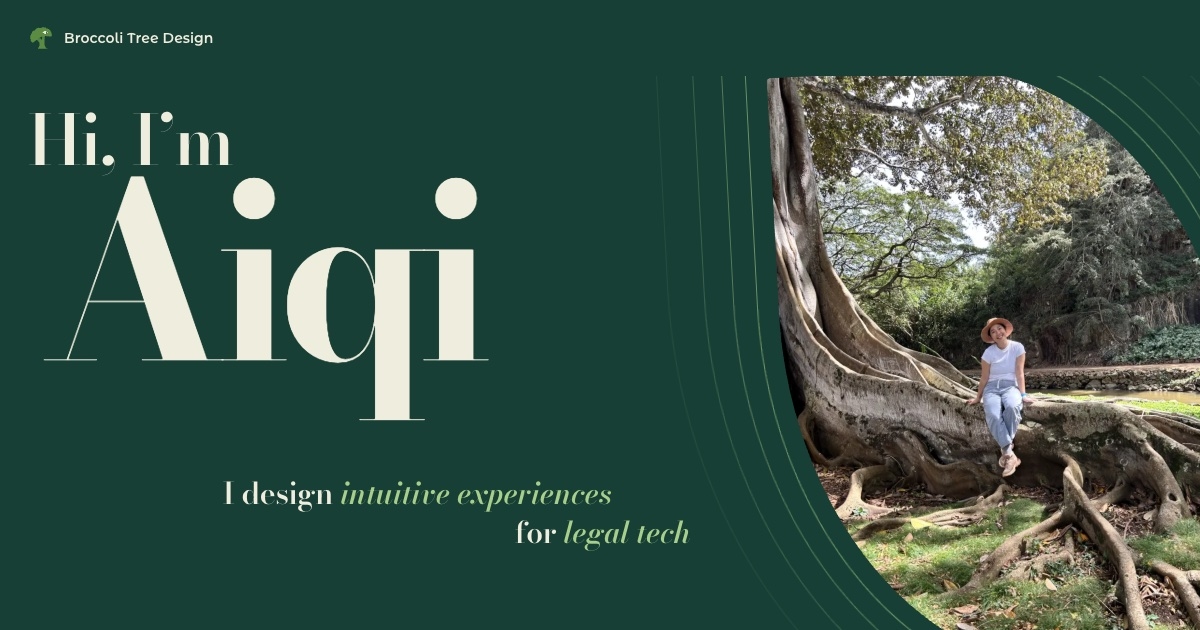
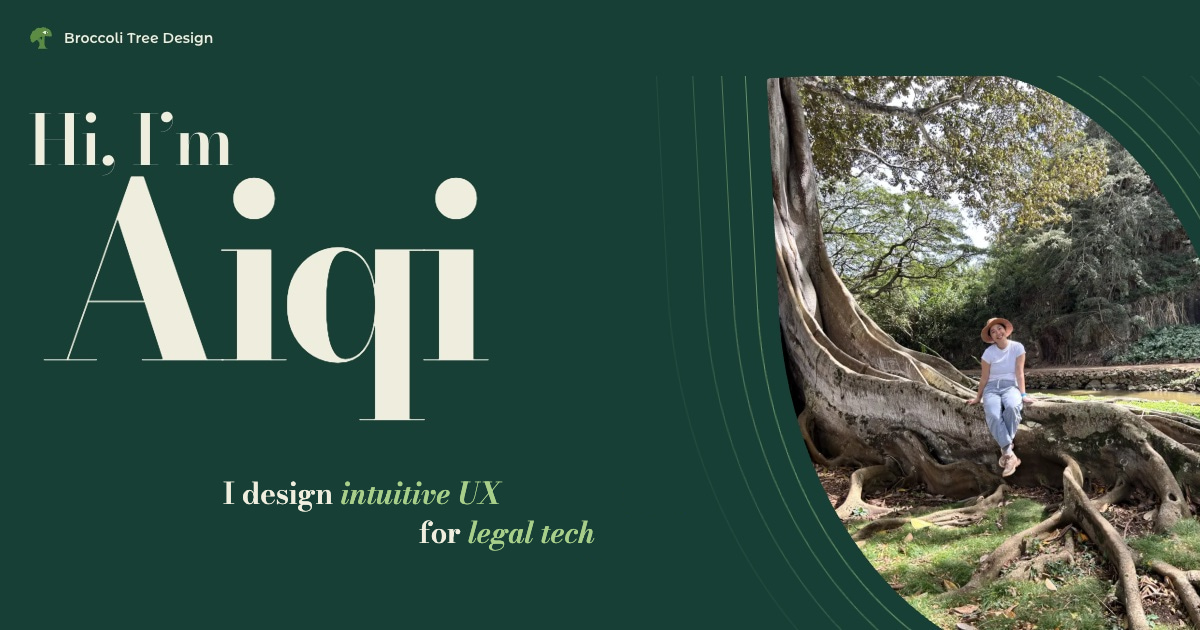
Match the share images, alt text and metadata to the hero copy
The hero now reads "I design intuitive UX for legal tech". Redraws the
slogan in the Open Graph and Twitter images, with the second line under
the first as on the page, and updates the alt text, the site description
and the structured data to the same wording.

Changed region(s): [[0.185, 0.754, 0.5858, 0.8746]]

diff --git a/app/page.tsx b/app/page.tsx
@@ -27,7 +27,7 @@ const JSON_LD = {
       name: "Aiqi Li",
       jobTitle: "UX Designer",
       description:
-        "Paralegal-turned UX designer creating intuitive design for legal tech, drawing on first-hand experience inside legal systems in the U.S. and China.",
+        "Paralegal-turned UX designer creating intuitive UX design for legal tech, drawing on first-hand experience inside legal systems in the U.S. and China.",
       url: SITE_URL,
       image: `${SITE_URL}/profile.jpg`,
       sameAs: [LINKEDIN_URL],
@@ -221,8 +221,8 @@ export default function Home() {
           </h2>
           <div className="grid section-body cs-body">
             <p className="body cs-p">
-              Examples from my past life designing enterprise softwares that
-              help humans overwhelmed by datageddon and fragmented tools make
+              Examples from my past life designing enterprise software that help
+              humans overwhelmed by datageddon and fragmented tools make
               informed decisions and develop shared understanding.
             </p>
           </div>

diff --git a/app/site.ts b/app/site.ts
@@ -4,6 +4,6 @@ export const SITE_NAME = "Broccoli Tree Design";
 export const SITE_TITLE =
   "Aiqi Li | UX Designer for Legal Tech | Broccoli Tree Design";
 export const SITE_DESCRIPTION =
-  "Intuitive design for legal tech. Paralegal-turned UX designer Aiqi Li helps early-stage teams with 0→1 product design, redesigns, research, branding and design systems.";
+  "Intuitive UX for legal tech. Paralegal-turned UX designer Aiqi Li helps early-stage teams with 0→1 product design, redesigns, research, branding and design systems.";
 export const LINKEDIN_URL = "https://www.linkedin.com/in/liaiqi/";
 export const GITHUB_URL = "https://github.com/broccoli-tree-design";
